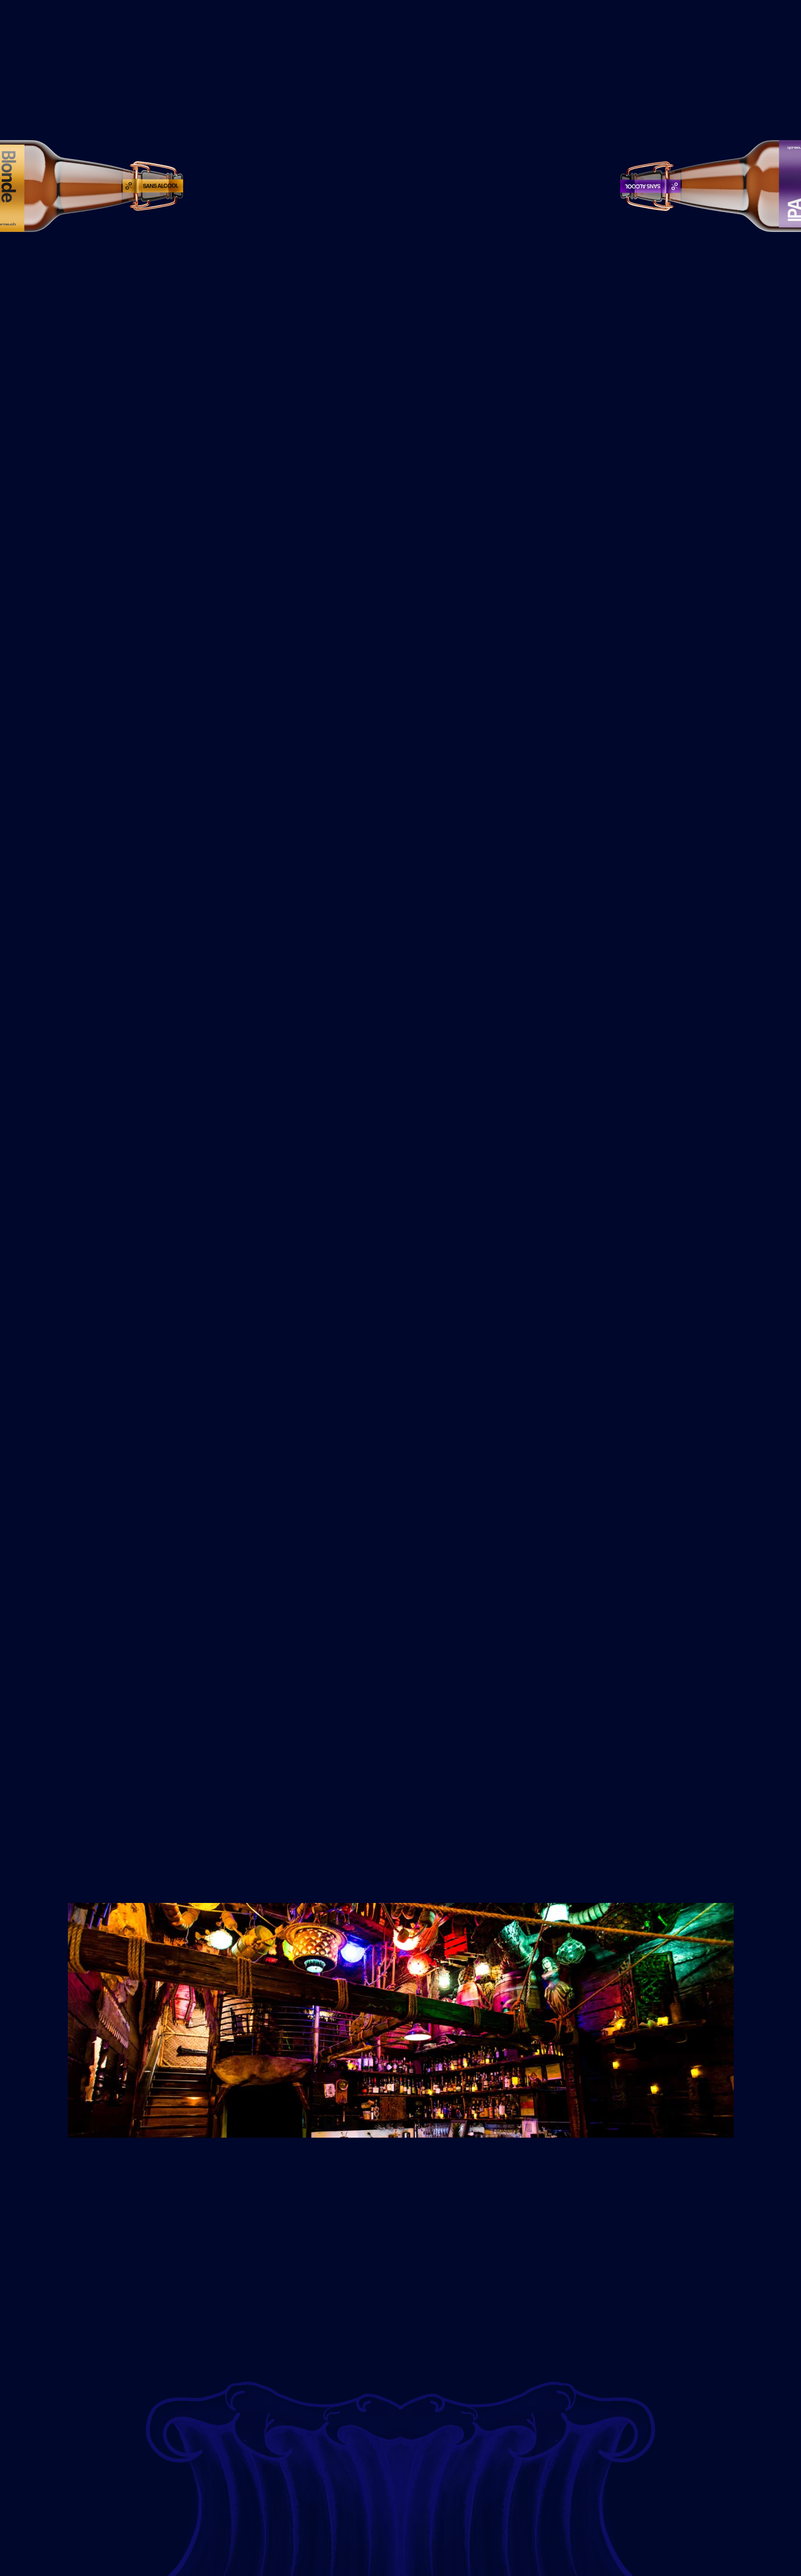
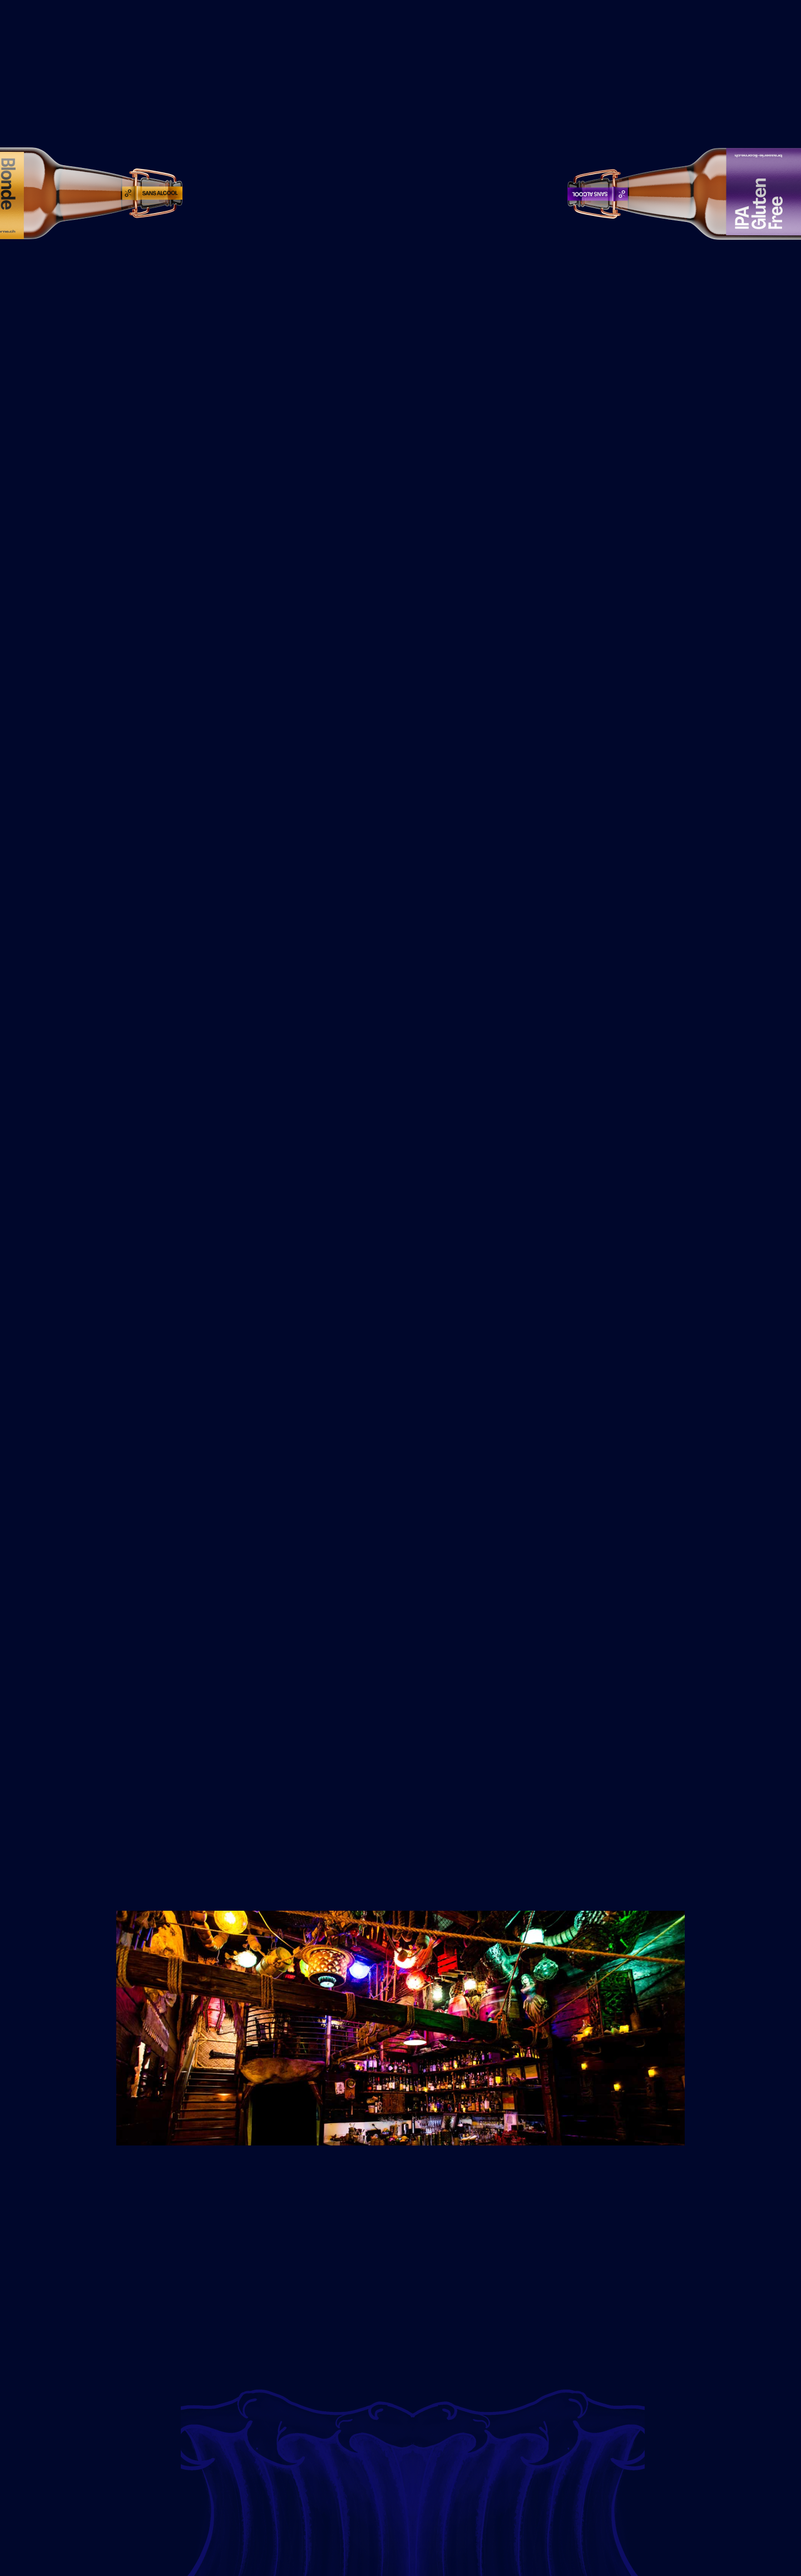
PPRO-Ajustement du background et ajout de la nav

diff --git a/src/index.html b/src/index.html
@@ -9,20 +9,31 @@
   <body>
     <header>
       <div class="container">
-        <div class="row"></div>
-        <div class="col-3">
-          <img src="img/bouteilles/logo_BLANC.png" alt="Logo de la marque" />
+        <div class="row">
+          <div class="col-4">
+            <img
+              class="title"
+              src="img/bouteilles/logo_BLANC.png"
+              alt="Logo de la marque"
+            />
+          </div>
         </div>
         <div class="row">
           <div class="container">
-            <div class="col-9"></div>
-          </div>
-          <div class="nav">
-            <select name="langage-button" id="nav">
-              <option value="nav">FR</option>
-              <option value="nav">DE</option>
-              <option value="nav">EN</option>
-            </select>
+            <div class="col-8">
+              <div class="nav">
+                <nav>
+                  <select name="langage-button" id="nav">
+                    <option value="nav">FR</option>
+                    <option value="nav">DE</option>
+                    <option value="nav">EN</option>
+                  </select>
+                  <p>Newsletter</p>
+                  <p>Connexion</p>
+                  <p>Panier</p>
+                </nav>
+              </div>
+            </div>
           </div>
         </div>
       </div>

diff --git a/src/scss/_base.scss b/src/scss/_base.scss
@@ -41,6 +41,18 @@ video {
 
 body {
   background-image: url(/src/img/autre-siteweb/fond-img.png);
+  background-repeat: no-repeat;
+}
+
+nav {
+  display: flex;
+  color: white;
+  justify-content: space-around;
+}
+
+.title {
+  width: 25%;
+  padding-left: 50px;
 }
 
 /* ====================================
